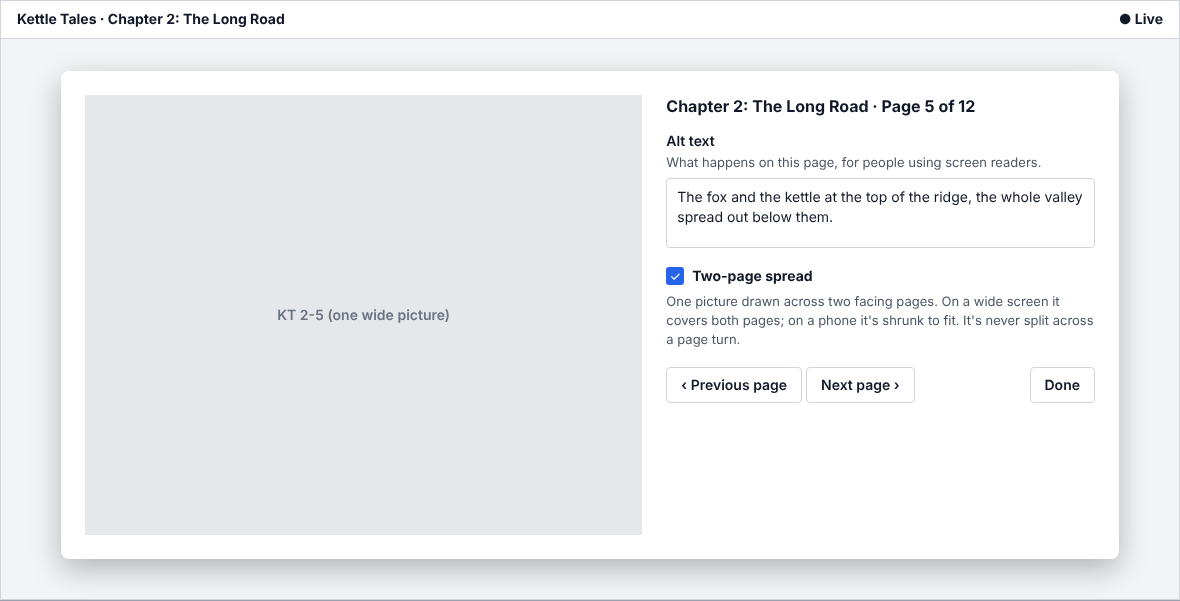
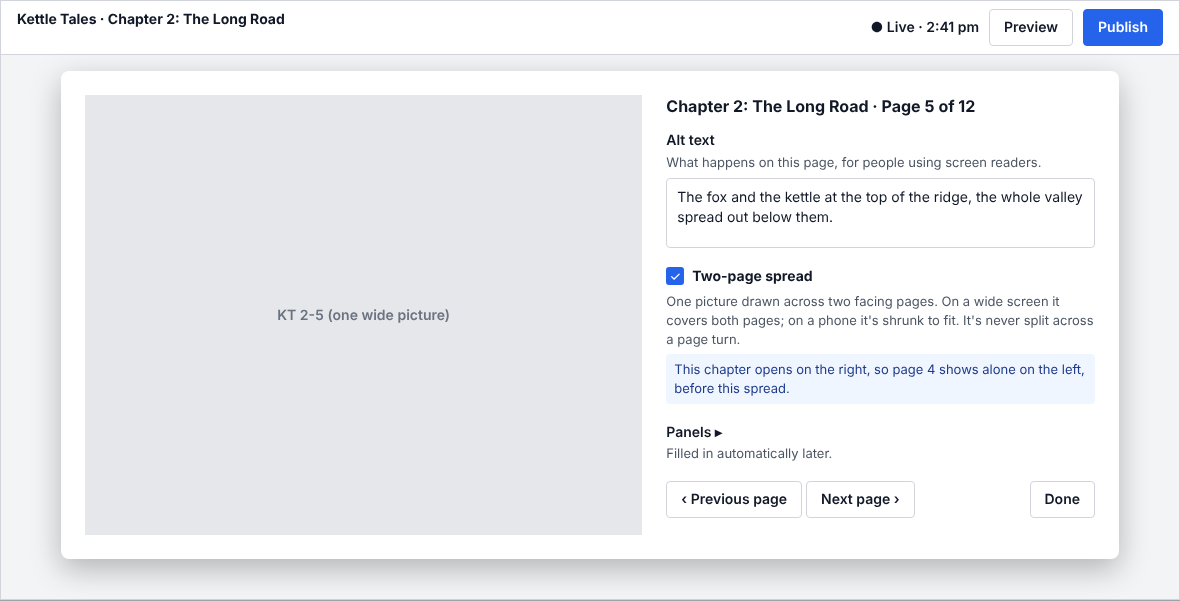
Design: spread and page-flip, revised after the persona walkthrough
Both sets of links and states in every reader page; the preview's
Computer always shows pairs; the page-flip for spreads, single pages,
chapter changes and narrow screens; the fans' guide; the width test in
text-size units; the note about a page a spread leaves alone and the
question for an unticked wide picture; 'The left, pairing from page 1';
mock-ups 5 to 9 redrawn and 10 to 12 added.

Claude-Session: https://claude.ai/code/session_01HWRLNSVAoX5Ni8d8XcwJh1

diff --git a/docs/design/mockups/comic-spread-and-flip/mockups.html b/docs/design/mockups/comic-spread-and-flip/mockups.html
@@ -103,6 +103,9 @@
   .turning { transform-origin: left center; transform: rotateY(-62deg); box-shadow: -30px 0 40px #0003; position: relative; z-index: 2; }
   .hint { font: 600 .9rem 'Nunito', sans-serif; text-align: center; margin: .5rem 0 0; color: var(--ink-light); }
   .phone .wide-shrunk { width: 100%; height: 252px; margin: 0 auto; }
+  .spread.short .side { height: 470px; width: 336px; }
+  .screen.landscape { width: 844px; height: 390px; }
+  .landscape .reader { max-width: none; }
 
   /* Editor (Sanity Studio as built: design-comic-publish-pages) */
   .ed { width: 1180px; background: #f3f4f6; font: 14px/1.45 system-ui, sans-serif; color: #111827; border: 1px solid #d1d5db; position: relative; }
@@ -141,31 +144,47 @@
 <div class="wrap"><h6>4 · The same spread on a phone: shrunk to fit the screen, as every page is; turning the phone sideways shows it bigger</h6>
 <div class="screen phone scrolled" id="m4"><div class="reader"><div class="bar"><a href="#">Back to series</a><a class="allpages" href="#"><span class="grid-icon"><i></i><i></i><i></i><i></i><i></i><i></i><i></i><i></i><i></i></span>All pages</a><p class="loc" style="flex-basis:100%">Chapter 2: The Long Road · Page 5 of 12 · two-page spread</p></div><div class="page wide-shrunk">Page 5 (spread)</div><p class="hint">Turn your phone sideways to see it bigger.</p><nav class="controls"><a class="ctl"><span class="sym"><svg viewBox="0 0 32 24" width="30" height="22" aria-hidden="true"><path d="M30 4 L18 12 L30 20 Z M16 4 L4 12 L16 20 Z" fill="currentColor"/></svg></span><span class="cap">First</span></a><a class="ctl"><span class="sym"><svg viewBox="0 0 24 24" width="26" height="26" aria-hidden="true"><path d="M17 4 L5 12 L17 20 Z" fill="currentColor"/></svg></span><span class="cap">Previous</span></a><a class="ctl"><span class="sym"><svg viewBox="0 0 24 24" width="26" height="26" aria-hidden="true"><path d="M7 4 L19 12 L7 20 Z" fill="currentColor"/></svg></span><span class="cap">Next</span></a><a class="ctl"><span class="sym"><svg viewBox="0 0 32 24" width="30" height="22" aria-hidden="true"><path d="M2 4 L14 12 L2 20 Z M16 4 L28 12 L16 20 Z" fill="currentColor"/></svg></span><span class="cap">Newest</span></a></nav></div></div></div>
 
-<div class="wrap"><h6>5 · Mid-turn on a laptop: page 3 turns over to the left, showing pages 4 and 5 beneath (about 0.4 seconds)</h6>
-<div class="screen wide scrolled" id="m5"><div class="reader"><div class="bar"><a href="#">Back to series</a><a class="allpages" href="#"><span class="grid-icon"><i></i><i></i><i></i><i></i><i></i><i></i><i></i><i></i><i></i></span>All pages</a><p class="loc">Chapter 2: The Long Road · Pages 2–3 of 12</p></div><div class="spread"><div class="side left"><div class="page">Page 4</div></div><div class="side right" style="position:relative"><div class="page" style="position:absolute;inset:0">Page 5</div><div class="page turning" style="width:100%">Page 3</div></div></div><nav class="controls"><a class="ctl"><span class="sym"><svg viewBox="0 0 32 24" width="30" height="22" aria-hidden="true"><path d="M30 4 L18 12 L30 20 Z M16 4 L4 12 L16 20 Z" fill="currentColor"/></svg></span><span class="cap">First</span></a><a class="ctl"><span class="sym"><svg viewBox="0 0 24 24" width="26" height="26" aria-hidden="true"><path d="M17 4 L5 12 L17 20 Z" fill="currentColor"/></svg></span><span class="cap">Previous</span></a><a class="ctl"><span class="sym"><svg viewBox="0 0 24 24" width="26" height="26" aria-hidden="true"><path d="M7 4 L19 12 L7 20 Z" fill="currentColor"/></svg></span><span class="cap">Next</span></a><a class="ctl"><span class="sym"><svg viewBox="0 0 32 24" width="30" height="22" aria-hidden="true"><path d="M2 4 L14 12 L2 20 Z M16 4 L28 12 L16 20 Z" fill="currentColor"/></svg></span><span class="cap">Newest</span></a></nav></div></div></div>
+<div class="wrap"><h6>5 · Mid-turn on a laptop: page 7 turns over to the left around the spine, showing page 9 beneath; its back, page 8, lands on page 6 (about 0.4 seconds)</h6>
+<div class="screen wide scrolled" id="m5"><div class="reader"><div class="bar"><a href="#">Back to series</a><a class="allpages" href="#"><span class="grid-icon"><i></i><i></i><i></i><i></i><i></i><i></i><i></i><i></i><i></i></span>All pages</a><p class="loc">Chapter 2: The Long Road · Pages 6–7 of 12</p></div><div class="spread"><div class="side left"><div class="page">Page 6</div></div><div class="side right" style="position:relative"><div class="page" style="position:absolute;inset:0">Page 9</div><div class="page turning" style="width:100%">Page 7</div></div></div><nav class="controls"><a class="ctl"><span class="sym"><svg viewBox="0 0 32 24" width="30" height="22" aria-hidden="true"><path d="M30 4 L18 12 L30 20 Z M16 4 L4 12 L16 20 Z" fill="currentColor"/></svg></span><span class="cap">First</span></a><a class="ctl"><span class="sym"><svg viewBox="0 0 24 24" width="26" height="26" aria-hidden="true"><path d="M17 4 L5 12 L17 20 Z" fill="currentColor"/></svg></span><span class="cap">Previous</span></a><a class="ctl"><span class="sym"><svg viewBox="0 0 24 24" width="26" height="26" aria-hidden="true"><path d="M7 4 L19 12 L7 20 Z" fill="currentColor"/></svg></span><span class="cap">Next</span></a><a class="ctl"><span class="sym"><svg viewBox="0 0 32 24" width="30" height="22" aria-hidden="true"><path d="M2 4 L14 12 L2 20 Z M16 4 L28 12 L16 20 Z" fill="currentColor"/></svg></span><span class="cap">Newest</span></a></nav></div></div></div>
 
 <div class="wrap"><h6>6 · A chapter that ends on a left-hand page: the last page alone on the left; the end note under the controls</h6>
-<div class="screen wide scrolled" id="m6"><div class="reader"><div class="bar"><a href="#">Back to series</a><a class="allpages" href="#"><span class="grid-icon"><i></i><i></i><i></i><i></i><i></i><i></i><i></i><i></i><i></i></span>All pages</a><p class="loc">Chapter 4: Homeward · Page 6 of 6</p></div><div class="spread"><div class="side left"><div class="page">Page 6</div></div><div class="side right"></div></div><nav class="controls"><a class="ctl"><span class="sym"><svg viewBox="0 0 32 24" width="30" height="22" aria-hidden="true"><path d="M30 4 L18 12 L30 20 Z M16 4 L4 12 L16 20 Z" fill="currentColor"/></svg></span><span class="cap">First</span></a><a class="ctl"><span class="sym"><svg viewBox="0 0 24 24" width="26" height="26" aria-hidden="true"><path d="M17 4 L5 12 L17 20 Z" fill="currentColor"/></svg></span><span class="cap">Previous</span></a><span class="ctl off"><span class="sym"><svg viewBox="0 0 24 24" width="26" height="26" aria-hidden="true"><path d="M7 4 L19 12 L7 20 Z" fill="currentColor"/></svg></span><span class="cap">Next</span></span><span class="ctl off"><span class="sym"><svg viewBox="0 0 32 24" width="30" height="22" aria-hidden="true"><path d="M2 4 L14 12 L2 20 Z M16 4 L28 12 L16 20 Z" fill="currentColor"/></svg></span><span class="cap">Newest</span></span></nav><div class="end"><p><b>You're all caught up!</b></p><p>New pages are on the way.</p></div></div></div></div>
+<div class="screen wide scrolled" id="m6"><div class="reader"><div class="bar"><a href="#">Back to series</a><a class="allpages" href="#"><span class="grid-icon"><i></i><i></i><i></i><i></i><i></i><i></i><i></i><i></i><i></i></span>All pages</a><p class="loc">Chapter 4: Homeward · Page 6 of 6</p></div><div class="spread short"><div class="side left"><div class="page">Page 6</div></div><div class="side right"></div></div><nav class="controls"><a class="ctl"><span class="sym"><svg viewBox="0 0 32 24" width="30" height="22" aria-hidden="true"><path d="M30 4 L18 12 L30 20 Z M16 4 L4 12 L16 20 Z" fill="currentColor"/></svg></span><span class="cap">First</span></a><a class="ctl"><span class="sym"><svg viewBox="0 0 24 24" width="26" height="26" aria-hidden="true"><path d="M17 4 L5 12 L17 20 Z" fill="currentColor"/></svg></span><span class="cap">Previous</span></a><span class="ctl off"><span class="sym"><svg viewBox="0 0 24 24" width="26" height="26" aria-hidden="true"><path d="M7 4 L19 12 L7 20 Z" fill="currentColor"/></svg></span><span class="cap">Next</span></span><span class="ctl off"><span class="sym"><svg viewBox="0 0 32 24" width="30" height="22" aria-hidden="true"><path d="M2 4 L14 12 L2 20 Z M16 4 L28 12 L16 20 Z" fill="currentColor"/></svg></span><span class="cap">Newest</span></span></nav><div class="end"><p><b>You're all caught up!</b></p><p>New pages are on the way.</p><a href="#" style="font:700 1rem Nunito,sans-serif;color:#2b2b2b">Back to series</a></div></div></div></div>
 
-<div class="wrap"><h6>7 · All pages on a laptop: a two-page spread shows twice as wide, marked "spread"</h6>
-<div class="screen wide scrolled" id="m7"><div class="sheet"><div class="bar"><a href="#">← Back to page 5</a></div><h1>Chapter 2: The Long Road</h1><p class="count">12 pages</p><ul class="thumbs" style="grid-template-columns:repeat(8,1fr)"><li><a class="thumb"><span class="img">Page 1</span><span class="num">1</span></a></li><li><a class="thumb"><span class="img">Page 2</span><span class="num">2</span></a></li><li><a class="thumb"><span class="img">Page 3</span><span class="num">3</span></a></li><li><a class="thumb"><span class="img">Page 4</span><span class="num">4</span></a></li><li style="grid-column:span 2"><a class="thumb here"><span class="img" style="aspect-ratio:4/3">Page 5</span><span class="num">5 · spread</span></a></li><li><a class="thumb"><span class="img">Page 6</span><span class="num">6</span></a></li><li><a class="thumb"><span class="img">Page 7</span><span class="num">7</span></a></li><li><a class="thumb"><span class="img">Page 8</span><span class="num">8</span></a></li><li><a class="thumb"><span class="img">Page 9</span><span class="num">9</span></a></li><li><a class="thumb"><span class="img">Page 10</span><span class="num">10</span></a></li><li><a class="thumb"><span class="img">Page 11</span><span class="num">11</span></a></li><li><a class="thumb"><span class="img">Page 12</span><span class="num">12</span></a></li></ul></div></div></div>
+<div class="wrap"><h6>10 · The newest page in a pair: on a laptop, pages 4 and 5 show, so Next and Newest can't be used and the end note shows; on a phone, page 4 still has Next</h6>
+<div class="screen wide scrolled" id="m10"><div class="reader"><div class="bar"><a href="#">Back to series</a><a class="allpages" href="#"><span class="grid-icon"><i></i><i></i><i></i><i></i><i></i><i></i><i></i><i></i><i></i></span>All pages</a><p class="loc">Chapter 4: Homeward · Pages 4–5 of 5</p></div><div class="spread short"><div class="side left"><div class="page">Page 4</div></div><div class="side right"><div class="page">Page 5</div></div></div><nav class="controls"><a class="ctl"><span class="sym"><svg viewBox="0 0 32 24" width="30" height="22" aria-hidden="true"><path d="M30 4 L18 12 L30 20 Z M16 4 L4 12 L16 20 Z" fill="currentColor"/></svg></span><span class="cap">First</span></a><a class="ctl"><span class="sym"><svg viewBox="0 0 24 24" width="26" height="26" aria-hidden="true"><path d="M17 4 L5 12 L17 20 Z" fill="currentColor"/></svg></span><span class="cap">Previous</span></a><span class="ctl off"><span class="sym"><svg viewBox="0 0 24 24" width="26" height="26" aria-hidden="true"><path d="M7 4 L19 12 L7 20 Z" fill="currentColor"/></svg></span><span class="cap">Next</span></span><span class="ctl off"><span class="sym"><svg viewBox="0 0 32 24" width="30" height="22" aria-hidden="true"><path d="M2 4 L14 12 L2 20 Z M16 4 L28 12 L16 20 Z" fill="currentColor"/></svg></span><span class="cap">Newest</span></span></nav><div class="end"><p><b>You're all caught up!</b></p><p>New pages are on the way.</p><a href="#" style="font:700 1rem Nunito,sans-serif;color:#2b2b2b">Back to series</a></div></div></div></div>
+
+<div class="wrap"><h6>12 · A phone held sideways, on a two-page spread: the picture fills the width; the controls are below it, a short scroll away</h6>
+<div class="screen landscape scrolled" id="m12"><div class="reader"><div class="bar"><a href="#">Back to series</a><a class="allpages" href="#"><span class="grid-icon"><i></i><i></i><i></i><i></i><i></i><i></i><i></i><i></i><i></i></span>All pages</a><p class="loc">Chapter 2: The Long Road · Page 5 of 12 · two-page spread</p></div><div class="page" style="width:100%;height:560px">Page 5 (spread)</div><nav class="controls"><a class="ctl"><span class="sym"><svg viewBox="0 0 32 24" width="30" height="22" aria-hidden="true"><path d="M30 4 L18 12 L30 20 Z M16 4 L4 12 L16 20 Z" fill="currentColor"/></svg></span><span class="cap">First</span></a><a class="ctl"><span class="sym"><svg viewBox="0 0 24 24" width="26" height="26" aria-hidden="true"><path d="M17 4 L5 12 L17 20 Z" fill="currentColor"/></svg></span><span class="cap">Previous</span></a><a class="ctl"><span class="sym"><svg viewBox="0 0 24 24" width="26" height="26" aria-hidden="true"><path d="M7 4 L19 12 L7 20 Z" fill="currentColor"/></svg></span><span class="cap">Next</span></a><a class="ctl"><span class="sym"><svg viewBox="0 0 32 24" width="30" height="22" aria-hidden="true"><path d="M2 4 L14 12 L2 20 Z M16 4 L28 12 L16 20 Z" fill="currentColor"/></svg></span><span class="cap">Newest</span></a></nav></div></div></div>
+
+<div class="wrap"><h6>7 · All pages on a laptop, opened from page 4 (alone on the left, before the spread): page 4 is marked; the spread is one picture twice as wide, "5 · spread"</h6>
+<div class="screen wide scrolled" id="m7"><div class="sheet"><div class="bar"><a href="#">← Back to page 4</a><a href="#">Back to series</a></div><h1>Kettle Tales · Chapter 2: The Long Road</h1><p class="count">12 pages</p><details class="chapters"><summary>Chapter 2 of 6 · All chapters</summary></details><ul class="thumbs" style="grid-template-columns:repeat(8,1fr)"><li><a class="thumb"><span class="img">Page 1</span><span class="num">1</span></a></li><li><a class="thumb"><span class="img">Page 2</span><span class="num">2</span></a></li><li><a class="thumb"><span class="img">Page 3</span><span class="num">3</span></a></li><li><a class="thumb here"><span class="img">Page 4</span><span class="num">4</span></a></li><li style="grid-column:span 2"><a class="thumb"><span class="img" style="aspect-ratio:4/3">Page 5</span><span class="num">5 · spread</span></a></li><li><a class="thumb"><span class="img">Page 6</span><span class="num">6</span></a></li><li><a class="thumb"><span class="img">Page 7</span><span class="num">7</span></a></li><li><a class="thumb"><span class="img">Page 8</span><span class="num">8</span></a></li><li><a class="thumb"><span class="img">Page 9</span><span class="num">9</span></a></li><li><a class="thumb"><span class="img">Page 10</span><span class="num">10</span></a></li><li><a class="thumb"><span class="img">Page 11</span><span class="num">11</span></a></li><li><a class="thumb"><span class="img">Page 12</span><span class="num">12</span></a></li></ul><div class="chapnav"><a href="#">← Chapter 1</a><a href="#">Chapter 3 →</a></div><div class="sheet-foot"><a href="#">← Back to page 4</a><a href="#">Back to series</a></div></div></div></div>
 
 <div class="wrap"><h6>8 · The editor: a chapter's "Open on" field, under Title; a spread page shows wide in the grid</h6>
-<div class="ed" id="m8"><div class="top"><span>Kettle Tales · Chapter 2: The Long Road</span><span>● Live</span></div><div class="doc">
+<div class="ed" id="m8"><div class="top"><span>Kettle Tales · Chapter 2: The Long Road</span><span style="display:flex;gap:10px;align-items:center;font-weight:600"><span>● Live · 2:41 pm</span><span class="btn">Preview</span><span class="btn" style="background:#2563eb;color:#fff;border-color:#2563eb">Publish</span></span></div><div class="doc">
 <div class="field"><label>Chapter</label><div class="input" style="width:120px">2</div></div>
 <div class="field"><label>Title</label><div class="input">The Long Road</div></div>
 <div class="field"><label>Open on</label><p class="help">How pages pair up on a wide screen. A printed comic opens on the right, so its facing pages are 2 and 3, 4 and 5.</p>
 <div class="radio"><i class="on"></i><span><b>The right, like a printed comic</b><br><span class="help">Page 1 alone on the right, then 2 and 3, 4 and 5.</span></span></div>
-<div class="radio"><i></i><span><b>Both sides</b><br><span class="help">Pages 1 and 2 together, then 3 and 4.</span></span></div></div>
-<div class="field"><label>Pages (12)</label><div class="grid"><div class="th"><div class="img">KT 2-1</div>1</div><div class="th"><div class="img">KT 2-2</div>2</div><div class="th"><div class="img">KT 2-3</div>3</div><div class="th"><div class="img">KT 2-4</div>4</div><div class="th spr"><div class="img">KT 2-5</div>5 <span class="tag">Two-page spread</span></div><div class="th"><div class="img">KT 2-6</div>6</div><div class="th"><div class="img">KT 2-7</div>7</div><div class="th"><div class="img">KT 2-8</div>8</div><div class="th"><div class="img">KT 2-9</div>9</div><div class="th"><div class="img">KT 2-10</div>10</div><div class="th"><div class="img">KT 2-11</div>11</div><div class="th"><div class="img">KT 2-12</div>12</div></div></div>
+<div class="radio"><i></i><span><b>The left, pairing from page 1</b><br><span class="help">Pages 1 and 2 together, then 3 and 4.</span></span></div></div>
+<div class="field"><div style="display:flex;justify-content:space-between;align-items:end"><div><label>Pages</label><p class="help">In reading order. Drag to reorder. Upload the original files, as they are; the site shows them at screen size.</p></div><div style="display:flex;gap:10px;align-items:center"><span style="background:#fef3c7;color:#92400e;border-radius:4px;padding:4px 10px">⚠ 1 page needs alt text</span><span class="btn" style="background:#2563eb;color:#fff;border-color:#2563eb">Upload pages</span></div></div><div class="grid"><div class="th"><div class="img">KT 2-1</div>1 · page-01.png</div><div class="th"><div class="img">KT 2-2</div>2 · page-02.png</div><div class="th"><div class="img">KT 2-3</div>3 · page-03.png</div><div class="th"><div class="img">KT 2-4</div>4 · page-04.png</div><div class="th spr"><div class="img">KT 2-5</div>5 · page-05.png <span class="tag">Two-page spread</span></div><div class="th"><div class="img">KT 2-6</div>6 · page-06.png</div><div class="th"><div class="img">KT 2-7</div>7 · page-07.png</div><div class="th"><div class="img">KT 2-8</div>8 · page-08.png</div><div class="th"><div class="img">KT 2-9</div>9 · page-09.png</div><div class="th"><div class="img">KT 2-10</div>10 · page-10.png</div><div class="th"><div class="img">KT 2-11</div>11 · page-11.png</div><div class="th"><div class="img">KT 2-12</div>12 · page-12.png</div></div></div>
 </div></div></div>
 
 <div class="wrap"><h6>9 · The editor: a page open, with "Two-page spread" ticked</h6>
-<div class="ed" id="m9" style="height:600px"><div class="top"><span>Kettle Tales · Chapter 2: The Long Road</span><span>● Live</span></div>
+<div class="ed" id="m9" style="height:600px"><div class="top"><span>Kettle Tales · Chapter 2: The Long Road</span><span style="display:flex;gap:10px;align-items:center;font-weight:600"><span>● Live · 2:41 pm</span><span class="btn">Preview</span><span class="btn" style="background:#2563eb;color:#fff;border-color:#2563eb">Publish</span></span></div>
 <div class="panel"><div class="big">KT 2-5 (one wide picture)</div><div>
 <div style="font-weight:700;font-size:16px;margin-bottom:12px">Chapter 2: The Long Road · Page 5 of 12</div>
 <div class="field"><label>Alt text</label><p class="help">What happens on this page, for people using screen readers.</p><div class="input" style="height:70px">The fox and the kettle at the top of the ridge, the whole valley spread out below them.</div></div>
-<div class="field"><div class="radio" style="align-items:center"><span class="check">✓</span><b>Two-page spread</b></div><p class="help">One picture drawn across two facing pages. On a wide screen it covers both pages; on a phone it's shrunk to fit. It's never split across a page turn.</p></div>
+<div class="field"><div class="radio" style="align-items:center"><span class="check">✓</span><b>Two-page spread</b></div><p class="help">One picture drawn across two facing pages. On a wide screen it covers both pages; on a phone it's shrunk to fit. It's never split across a page turn.</p><p class="help" style="background:#eff6ff;border-radius:4px;padding:6px 8px;color:#1e3a8a">This chapter opens on the right, so page 4 shows alone on the left, before this spread.</p></div>
+<div class="field"><label>Panels ▸</label><p class="help">Filled in automatically later.</p></div>
+<div><span class="btn">‹ Previous page</span> <span class="btn">Next page ›</span> <span class="btn" style="float:right">Done</span></div>
+</div></div></div></div>
+<div class="wrap"><h6>11 · The editor: a wide picture, not ticked as a spread; the page panel asks</h6>
+<div class="ed" id="m11" style="height:560px"><div class="top"><span>Kettle Tales · Chapter 2: The Long Road</span><span style="display:flex;gap:10px;align-items:center;font-weight:600"><span>● Live · 2:41 pm</span><span class="btn">Preview</span><span class="btn" style="background:#2563eb;color:#fff;border-color:#2563eb">Publish</span></span></div>
+<div class="panel"><div class="big">KT 2-9 (one wide picture)</div><div>
+<div style="font-weight:700;font-size:16px;margin-bottom:12px">Chapter 2: The Long Road · Page 9 of 12</div>
+<div class="field"><label>Alt text</label><p class="help">What happens on this page, for people using screen readers.</p><div class="input" style="height:70px">The fair from above, every stall lit.</div></div>
+<div class="field"><p style="background:#fef3c7;color:#92400e;border-radius:4px;padding:8px 10px;margin:0 0 8px">This picture is wider than it is tall. Is it a two-page spread? If so, tick <b>Two-page spread</b>; otherwise it shows small, on one side.</p><div class="radio" style="align-items:center"><span class="check" style="background:#fff;color:#fff"></span><b>Two-page spread</b></div></div>
+<div class="field"><label>Panels ▸</label><p class="help">Filled in automatically later.</p></div>
 <div><span class="btn">‹ Previous page</span> <span class="btn">Next page ›</span> <span class="btn" style="float:right">Done</span></div>
 </div></div></div></div>
 </body>

diff --git a/docs/design/comic-spread-and-flip.md b/docs/design/comic-spread-and-flip.md
@@ -9,6 +9,7 @@ derived-from:
   - design-comic-sheet-and-controls#flow: 54dc5fcac36b
   - design-comic-publish-pages#flow: 954976ba8278
   - persona-fan#context-of-use: 38883e5abc09
+  - design-preview#flow: 257ebbac18cb
   - persona-artist#skills-and-tools: 4e28d5374320
 ---
 
@@ -16,7 +17,8 @@ derived-from:
 
 <!-- docs/design/comic-spread-and-flip.md. Design for stories 1 and 2 of epic-comic-reader-flip-and-panels.
 Mock-ups are in docs/design/mockups/comic-spread-and-flip/ (PNG images, and mockups.html, the source they
-are rendered from with render.mjs). Cross-document view transitions checked in Chromium 153 (2026-11-05). -->
+are rendered from with render.mjs). Cross-document view transitions checked in Chromium 153 (2026-11-05).
+Revised after a persona walkthrough. -->
 
 ## Personas
 
@@ -30,36 +32,39 @@ are rendered from with render.mjs). Cross-document view transitions checked in C
 
 ## How it works
 
-- **Wide and narrow.** A screen at least 1000 px wide and wider than it is tall shows two pages side by side; any other screen shows one page at a time, exactly as now. Turning a phone or tablet sideways can switch between the two.
+- **Wide and narrow.** A screen at least 62.5 em wide (1000 px at the usual text size) and wider than it is tall shows two pages side by side; any other screen shows one page at a time, exactly as now. Because the width is measured in text size, enlarging the text to 200% makes a laptop show one page at a time. Turning a tablet sideways can switch between the two; a phone held sideways stays one page at a time (mock-up 12).
 - **Pairs.** Each chapter's **Open on** setting decides how its pages pair on a wide screen:
   - **The right, like a printed comic** (the default): page 1 alone on the right, then 2 and 3, 4 and 5 (mock-up 2).
-  - **Both sides**: 1 and 2, 3 and 4.
+  - **The left, pairing from page 1**: 1 and 2, 3 and 4.
 - **A two-page spread page** (one picture across two facing pages, which Star marks) always takes both sides (mock-up 3). If the page before it would have been left alone on the left, that page shows alone on the left. The pairing then carries on after the spread: the next page starts a new pair on the left.
 - **The last page** of a chapter, when it has no facing page, shows alone on its own side (mock-up 6). The next chapter starts with its own pairing, on the next turn.
-- **Narrow screens** never pair pages. A spread page is shrunk to fit the screen like every page, with "Turn your phone sideways to see it bigger." under it on a phone held upright (mock-up 4).
+- **Narrow screens** never pair pages. A spread page is shrunk to fit the screen like every page (mock-up 4). On a narrow screen held upright, "Turn your phone sideways to see it bigger." shows under a spread page; it's hidden from screen readers, which hear the alt text instead. Held sideways, a spread page fills the width and the controls are a short scroll below it (mock-up 12).
 
 ## Page addresses
 
 - Every page keeps its own address, `/comics/<series>/<chapter>/<page>`, as now. A spread page is one page, with one address.
-- On a wide screen, a page's address shows the pair it's in. **Next** goes to the first page of the next pair, so the address bar shows the left-hand page of what's on screen (or the only page).
-- A link to page 3 opens pages 2 and 3 on a wide screen, and page 3 on a phone. Nothing about a shared link depends on the screen it was shared from.
+- On a wide screen, a page's address shows the pair it's in. A link to page 3 opens pages 2 and 3 on a wide screen, and page 3 on a phone, and the address stays `/3`: nothing is redirected, and nothing about a shared link depends on the screen it was shared from.
+- **Next** on a wide screen goes to the first page of the next pair (its left-hand page, or its only page), so after the first turn the address is the left-hand page of what's on screen.
+- **Each reader page carries both sets of links and states**: where **Previous** and **Next** go on a wide screen and on a narrow one, whether each control can be used, and whether the end note shows. The same width test that lays out the pages picks which set shows, so turning still works with no script at all, as design-comic-turn-pages promises. For example, if page 5 is the newest, page 4 on a laptop shows 4 and 5, with **Next** and **Newest** unusable and the end note showing (mock-up 10); on a phone, page 4 has **Next**.
 - The contact sheet's pictures, **First**, **Newest** and the chapter links keep their addresses.
 
 ## Flow: a fan
 
 1. On a laptop, a page opens as a pair: "Chapter 2: The Long Road · Pages 2–3 of 12" in the bar (mock-up 1).
 2. **Next**, swiping left, or the right arrow key turns to the next pair; **Previous**, swiping right, or the left arrow key turns back. They move by a pair on a wide screen and by a page on a narrow one, across chapters as now.
-3. The turn looks like a page turning over (mock-up 5): turning forward, the right-hand page lifts at its outer edge and turns over to the left around the spine, about 0.4 seconds; turning back, the left-hand page turns over to the right. On a narrow screen, the single page turns over the same way.
+3. The turn looks like a page turning over (mock-up 5): turning forward, the right-hand page lifts at its outer edge and turns over to the left around the spine, about 0.4 seconds, with the new pair revealed beneath it; turning back, the left-hand page turns over to the right. "The page-flip", below, covers spreads, single pages and narrow screens.
 4. A spread page reads "Page 5 of 12 · two-page spread" in the bar.
-5. **All pages** shows a spread as one picture twice as wide, numbered "5 · spread" (mock-up 7).
+5. **All pages** shows a spread as one picture twice as wide, numbered "5 · spread", its link named "Page 5, two-page spread" (mock-up 7). On a phone's three-across sheet, a spread takes two of the three places. The picture marked "You were here" is the page in the address, as now, even when the fan came from a pair.
 6. At the end of the series, the end note shows under the controls, as now (mock-up 6).
 
 ## Flow: Star
 
-1. In a chapter, Star chooses **Open on**: **The right, like a printed comic** (already chosen) or **Both sides** (mock-up 8). Most chapters need nothing.
+1. In a chapter, Star chooses **Open on**: **The right, like a printed comic** (already chosen) or **The left, pairing from page 1** (mock-up 8). Most chapters need nothing.
 2. For a two-page spread, Star uploads it as one wide picture, in its place among the pages, opens it, and ticks **Two-page spread** (mock-up 9). In the pages grid, it shows twice as wide, marked "Two-page spread" (mock-up 8).
-3. **Preview** shows the reader as it will be on a wide screen when the preview pane is wide enough, and as on a phone when it isn't. (Star can widen the pane, or open the preview in its own window.)
-4. Publishing works as now. Ticking or unticking **Two-page spread**, or changing **Open on**, changes no page's address, so it needs no shared-link warning.
+3. If a spread leaves the page before it alone on the left, the page panel says so under the tick box: "This chapter opens on the right, so page 4 shows alone on the left, before this spread." (mock-up 9). Star can leave it, or move a page or change **Open on** to close the gap.
+4. If Star uploads a picture wider than it is tall and doesn't tick **Two-page spread**, the page panel asks: "This picture is wider than it is tall. Is it a two-page spread? If so, tick **Two-page spread**; otherwise it shows small, on one side." (mock-up 11).
+5. **Preview** on a chapter: **Computer** always shows pairs (the reader at a laptop's 1280 × 800, scaled to fit), and **Phone** shows one page at a time, whatever the size of the editor's window (design-preview).
+6. Publishing works as now. Ticking or unticking **Two-page spread**, or changing **Open on**, changes no page's address, so it needs no shared-link warning.
 
 ## What Star enters
 
@@ -67,7 +72,7 @@ are rendered from with render.mjs). Cross-document view transitions checked in C
 
 | Field | Help text | Choices |
 |---|---|---|
-| Open on | How pages pair up on a wide screen. A printed comic opens on the right, so its facing pages are 2 and 3, 4 and 5. | **The right, like a printed comic**: Page 1 alone on the right, then 2 and 3, 4 and 5. (default) · **Both sides**: Pages 1 and 2 together, then 3 and 4. |
+| Open on | How pages pair up on a wide screen. A printed comic opens on the right, so its facing pages are 2 and 3, 4 and 5. | **The right, like a printed comic**: Page 1 alone on the right, then 2 and 3, 4 and 5. (default) · **The left, pairing from page 1**: Pages 1 and 2 together, then 3 and 4. |
 
 **A page**, in the page panel, under **Alt text**:
 
@@ -79,8 +84,15 @@ are rendered from with render.mjs). Cross-document view transitions checked in C
 
 - **Where it plays:** in browsers with cross-document view transitions (Chrome, Edge, Safari 18.2 and later, and others as they add them). Other browsers change pages without it, as now.
 - **Reduced motion:** when the system asks for reduced motion, pages change without it.
+- **Length:** about 0.4 seconds, and never more than half a second.
 - **Never a blank page:** the next pages are fetched ahead, as now. If the picture still isn't ready when the turn would start, the page changes without the turn and shows its loading state, as now.
 - **Turning quickly:** a second turn during the animation finishes the first at once and starts the second, so no turn is lost.
+- **What turns:** a sheet with the page being left on its front and the page that will face it on its back.
+  - **Pair to pair:** forward, the right-hand page turns over to the left around the spine, its back becoming the new left-hand page, with the new right-hand page beneath; back, the reverse.
+  - **A spread page:** turns as one wide sheet, around the spine, onto the next pair (or from the previous one).
+  - **A page alone on one side** (page 1 on the right, a last page on the left): turns as half a sheet; the empty side stays empty until the turn ends.
+  - **Into another chapter:** the same turn; the next chapter's first pair or page is beneath.
+  - **Narrow screens:** there's no spine, so the single page turns over around its left edge, like the top sheet of a pad, with the next page beneath; back, the previous page turns in from the left.
 - **Everything else stays:** the turn is drawn over an ordinary move to the next address, so focus, announcements, the address bar, the back button and preloading work as they do now.
 
 ## Layout
@@ -89,12 +101,16 @@ are rendered from with render.mjs). Cross-document view transitions checked in C
 - **A page alone on one side:** the other side is left empty, so it reads as the right or left page it is (mock-ups 2 and 6).
 - **A spread page:** one picture across both sides, the width of two pages, no shadow (mock-up 3).
 - **The bar and the controls** stay where they are now. "Pages 2–3 of 12" replaces "Page 2 of 12" for a pair.
+- **The edge arrows** (design-comic-turn-pages, wide screens, mouse only) sit at the outer edges of the pair or the spread.
+- **On the newest pair or page**, the pages are shortened so that the end note and its **Back to series** fit on the first screen of an 800 px tall laptop (mock-ups 6 and 10).
 
 ## States and errors
 
 | Situation | What happens |
 |---|---|
 | A spread page that isn't wide (Star ticked it by mistake) | It still takes both sides, shown whole and centred, so nothing is cut off. The pages grid shows it wide, so the mistake is easy to see. |
+| A wide picture that isn't ticked | The page panel asks whether it's a two-page spread (mock-up 11). Unticked, it shows whole on its own side, smaller. |
+| A spread leaves a page alone on the left | Allowed. The page panel says which page, under the tick box (mock-up 9). |
 | A chapter with one page | That page alone, on the side **Open on** puts page 1. |
 | The window is resized or the tablet turned | The reader switches between pairs and single pages without reloading or moving away from the page. |
 | A picture fails to load | Its side shows the loading state and its alt text, as a single page does now. |
@@ -104,9 +120,29 @@ are rendered from with render.mjs). Cross-document view transitions checked in C
 
 - **Announcements:** turning to a pair announces "Chapter 2: The Long Road, pages 2 and 3 of 12." then page 2's alt text, then page 3's. A spread page announces "Page 5 of 12, two-page spread." then its alt text.
 - **Order:** in a pair, each page is its own image with its own alt text, left before right in reading and focus order.
-- **Controls:** **Previous** and **Next** keep their names; their full names on hover or focus become "Previous pages" and "Next pages" on a wide screen.
+- **Controls:** **Previous** and **Next** keep their names. Their full names on hover or focus say "pages" when they lead to a pair on a wide screen ("Next pages"), and "page" when they lead to a single page or a spread ("Next page").
+- **The sideways hint** is hidden from screen readers.
 - **Motion:** the turn honours reduced motion and never runs longer than half a second.
-- **Zoom and reflow:** at 200% text or 400% zoom the screen is narrow, so the reader shows one page at a time and never scrolls sideways.
+- **Zoom and reflow:** the width test is in text-size units, so at 200% text or 400% zoom the reader shows one page at a time and never scrolls sideways.
+
+## Persona walkthrough
+
+A walkthrough for persona-fan and persona-artist (2026-11-05), which opened every mock-up, found four blocking problems and eleven others. Addressed here:
+
+- **Blocking:**
+  - both sets of links and states in every reader page, with a mock-up of a pair holding the newest page;
+  - the preview's **Computer** always showing pairs;
+  - the page-flip for spreads, single pages, chapter changes and narrow screens;
+  - the fans' guide.
+- **Others:**
+  - mock-up 5 redrawn so it no longer contradicts mock-up 3, and the full contact sheet and editor in mock-ups 7 to 9;
+  - the note about a page a spread leaves alone, and the question for a wide picture that isn't ticked;
+  - a phone held sideways;
+  - **The left, pairing from page 1** in place of "Both sides";
+  - the width test in text-size units, for 200% text;
+  - "pages" in the controls' full names only for a pair;
+  - the edge arrows at the pair's outer edges;
+  - the end note on the first screen.
 
 ## Mock-ups
 
@@ -116,15 +152,19 @@ are rendered from with render.mjs). Cross-document view transitions checked in C
 | 2 | A chapter opening on the right: page 1 alone | `mockups/comic-spread-and-flip/2-opens-on-right.png` |
 | 3 | A two-page spread page across both sides | `mockups/comic-spread-and-flip/3-wide-page.png` |
 | 4 | The same spread on a phone, shrunk to fit | `mockups/comic-spread-and-flip/4-wide-page-phone.png` |
-| 5 | Mid-turn on a laptop | `mockups/comic-spread-and-flip/5-mid-turn.png` |
+| 5 | Mid-turn on a laptop: page 7 turning to show 8 and 9 | `mockups/comic-spread-and-flip/5-mid-turn.png` |
 | 6 | A chapter ending on a left-hand page, with the end note | `mockups/comic-spread-and-flip/6-last-page-left.png` |
 | 7 | All pages on a laptop, with a spread twice as wide | `mockups/comic-spread-and-flip/7-all-pages.png` |
 | 8 | The editor: a chapter's **Open on**, and a spread in the pages grid | `mockups/comic-spread-and-flip/8-editor-open-on.png` |
-| 9 | The editor: a page with **Two-page spread** ticked | `mockups/comic-spread-and-flip/9-editor-spread-page.png` |
+| 9 | The editor: a page with **Two-page spread** ticked, and the note about the page left alone | `mockups/comic-spread-and-flip/9-editor-spread-page.png` |
+| 10 | The newest page in a pair: **Next** and **Newest** unusable, the end note | `mockups/comic-spread-and-flip/10-newest-in-pair.png` |
+| 11 | The editor: a wide picture not ticked, and the question | `mockups/comic-spread-and-flip/11-editor-wide-picture.png` |
+| 12 | A phone held sideways on a spread | `mockups/comic-spread-and-flip/12-phone-sideways.png` |
 
 ## For the guide
 
-The comics guide (`docs/user/publishing-comics.md`) gains a section, **Two-page spreads and how pages pair up**: what **Open on** does, when to tick **Two-page spread**, how a spread is uploaded (one wide picture in its place), and what fans see on a laptop and on a phone. Its help link is that section; it needs no new guide, so the online help gains nothing new beyond the section.
+- **Star's comics guide** (`docs/user/publishing-comics.md`) gains a section, **Two-page spreads and how pages pair up**: what **Open on** does, when to tick **Two-page spread**, how a spread is uploaded (one wide picture in its place), the note about a page left alone, and what fans see on a laptop and on a phone. It's a section of an existing guide, so the online help gains no new guide.
+- **The fans' guide** (`docs/user/reading-comics.md`, a fans' guide) gains a section on reading on a wide screen: pairs and "Pages 2–3", spreads, turning a phone sideways for a spread, and that the page-turn is skipped when reduced motion is on.
 
 ## For the spec to check
 
@@ -132,4 +172,6 @@ The comics guide (`docs/user/publishing-comics.md`) gains a section, **Two-page 
 - The 1000 px and landscape test for pairs, at 200% text and 400% zoom.
 - Pairing with spreads in every position, both **Open on** choices, chapters of one page, and the last page.
 - That ticking **Two-page spread** or changing **Open on** changes no address, and the publish warnings stay as they are.
+- Both sets of links and states in every reader page, picked by the width test, with no script.
+- The preview's **Computer** at 1280 × 800 meets the width test whatever the pane's size.
 - The reader page's announcements for pairs and spreads.
